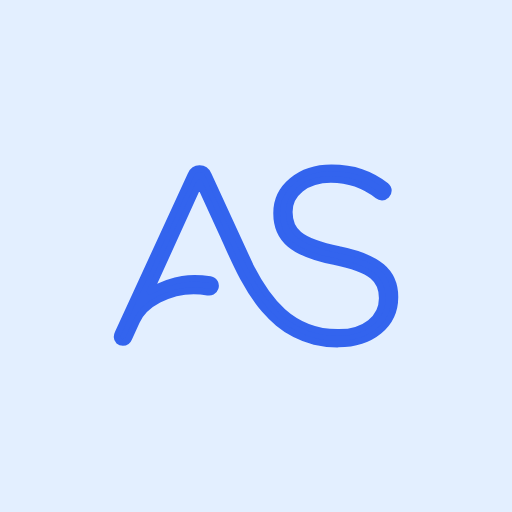
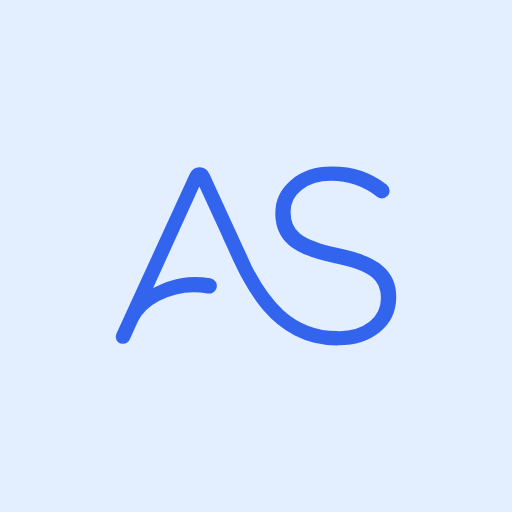
feat(correduría): grosor del monograma AS unificado (opción 2 de Alberto)
stroke-width 1 en los dos marca-asegura.svg y en MarcaAsegura.tsx: favicon,
cabeceras de web y portal y avatar del correo con el mismo trazo. Cepo en
asegura-web/lib/icono.test.ts (visto en rojo con cada copia desalineada).

Claude-Session: https://claude.ai/code/session_01M1Cby7Myd9LrByMTH2rKRF

diff --git a/apps/asegura-portal/app/MarcaAsegura.tsx b/apps/asegura-portal/app/MarcaAsegura.tsx
@@ -27,6 +27,10 @@ export function MarcaAsegura({ alto = 14, className }: { alto?: number; classNam
     >
       <path
         fill="currentColor"
+        stroke="currentColor"
+        strokeWidth={1}
+        strokeLinejoin="round"
+        strokeLinecap="round"
         d="M95.98,42.62c-15.09-3.1-18.55-7.18-18.55-13.9v-.19c0-6.63,6.19-12,15.55-12,6.46,0,12,1.73,17.55,6.01.45.36,1.01.54,1.54.54,1.27,0,2.36-1.09,2.36-2.36,0-.91-.54-1.55-.99-1.91-5.82-4.36-11.72-6.55-20.27-6.55-11.83,0-20.46,7.28-20.46,16.72v.19c0,9.63,6.18,14.81,21.45,17.9,14.46,2.91,18,6.81,18,13.55v.18c0,7.27-6.55,12.64-16.09,12.64h-.69v-.03c-17.19,0-26.27-12.37-32.48-24.6l-15.7-34c-.64-1.37-1.54-2.28-3.19-2.28h-.18c-1.63,0-2.53.91-3.18,2.28l-27.18,58.91c-.26.54-.36,1.09-.36,1.45,0,1.1.99,2,2.17,2,1.09,0,1.82-.63,2.28-1.72l2.76-6.07c1.42-3.13,4.24-6.06,8.33-8.18,5.73-2.97,11.44-4.01,18.34-2.77.57.11,1.14.02,1.62-.23,1.13-.59,1.6-2.06,1.01-3.19-.42-.81-1.19-1.11-1.76-1.22-7.18-1.19-13.43-.41-21.02,3.54-.46.25-.91.5-1.36.76l18.34-40.18,9.28,20.14h-.02c.51,1.09,1.03,2.22,1.57,3.43,3.23,7.2,7.28,16.15,13.49,23.36,1.66,1.9,3.4,3.63,5.19,5.11,1.96,1.61,4.05,2.99,6.21,4.1,2.31,1.2,4.77,2.11,7.33,2.73,2.7.65,5.55.98,8.5.98v-.04h.42c12.29,0,21.1-7.09,21.1-17.36v-.18c0-9.27-6.19-14.55-20.91-17.54Z"
       />
     </svg>

diff --git a/apps/asegura-web/lib/icono.test.ts b/apps/asegura-web/lib/icono.test.ts
@@ -62,3 +62,14 @@ test('usa tokens en hex: satori no entiende oklch', () => {
   const fuente = readFileSync(ICONO, 'utf8')
   assert.match(fuente, /primario, acentoSuave|acentoSuave, primario/, 'el icono cambió de tokens: revisa que sigan en hex')
 })
+
+// Grosor del «AS» elegido por Alberto el 29/09/2026 («opción 2»): un trazo de 1 unidad del viewBox
+// sobre el relleno. Vive en los dos SVG y en la copia en línea del portal; si uno cambia y los
+// otros no, la marca sale con dos grosores según la pantalla.
+test('el monograma lleva el mismo grosor en todas sus copias', () => {
+  const portal = join(RAIZ, '../asegura-portal')
+  for (const f of [MONOGRAMA, join(portal, 'public/brand/marca-asegura.svg')]) {
+    assert.match(readFileSync(f, 'utf8'), /<svg[^>]*stroke="currentColor"[^>]*stroke-width="1"/, `${f} perdió el grosor elegido`)
+  }
+  assert.match(readFileSync(join(portal, 'app/MarcaAsegura.tsx'), 'utf8'), /strokeWidth=\{1\}/, 'MarcaAsegura.tsx perdió el grosor elegido')
+})

diff --git a/docs/CONTEXTO-SESIONES.md b/docs/CONTEXTO-SESIONES.md
@@ -898,7 +898,7 @@ facturación GitHub Suecia→España. Arquitectura «ASegura OS» aprobada en `d
 
 ## (29/09/2026) Correduría: marca «AS» en todos los correos al cliente
 - `conMarcaCorreo()` (`@central/module-seguros`, `correo-marca.ts`): cabecera con logotipo + pie «solo escribimos desde @grupoasegura.es». Se aplica en el punto único `apps/asegura/lib/correo-envio.ts` y en los dos envíos del portal (código, invitación); idempotente (salta si el HTML ya trae el logo).
-- `apps/asegura-web/public/brand/avatar-asegura.png` (512 px, trazo fino a petición de Alberto) para el círculo de la bandeja. ⚠ Ese avatar NO sale del HTML: hay que ponerlo como foto de una cuenta de Google de `hola@grupoasegura.es` (solo Gmail) o vía BIMI (DMARC estricto + VMC/CMC de pago). Pendiente de Alberto.
+- `apps/asegura-web/public/brand/avatar-asegura.png` (512 px). Grosor del «AS» = «opción 2» de Alberto (`stroke-width=1` en ambos `marca-asegura.svg` + `MarcaAsegura.tsx`, cepo en `asegura-web/lib/icono.test.ts`); el logotipo de texto (stroke 6) NO se tocó para el círculo de la bandeja. ⚠ Ese avatar NO sale del HTML: hay que ponerlo como foto de una cuenta de Google de `hola@grupoasegura.es` (solo Gmail) o vía BIMI (DMARC estricto + VMC/CMC de pago). Pendiente de Alberto.
 
 ## (29/09/2026) Riesgo: tres decisiones cerradas (Alberto: «resuelve como veas»)
 - «Volver» del aviso legal al emitir vuelve a la OFERTA (con cuenta/fecha/tecleado), no cierra el panel.
